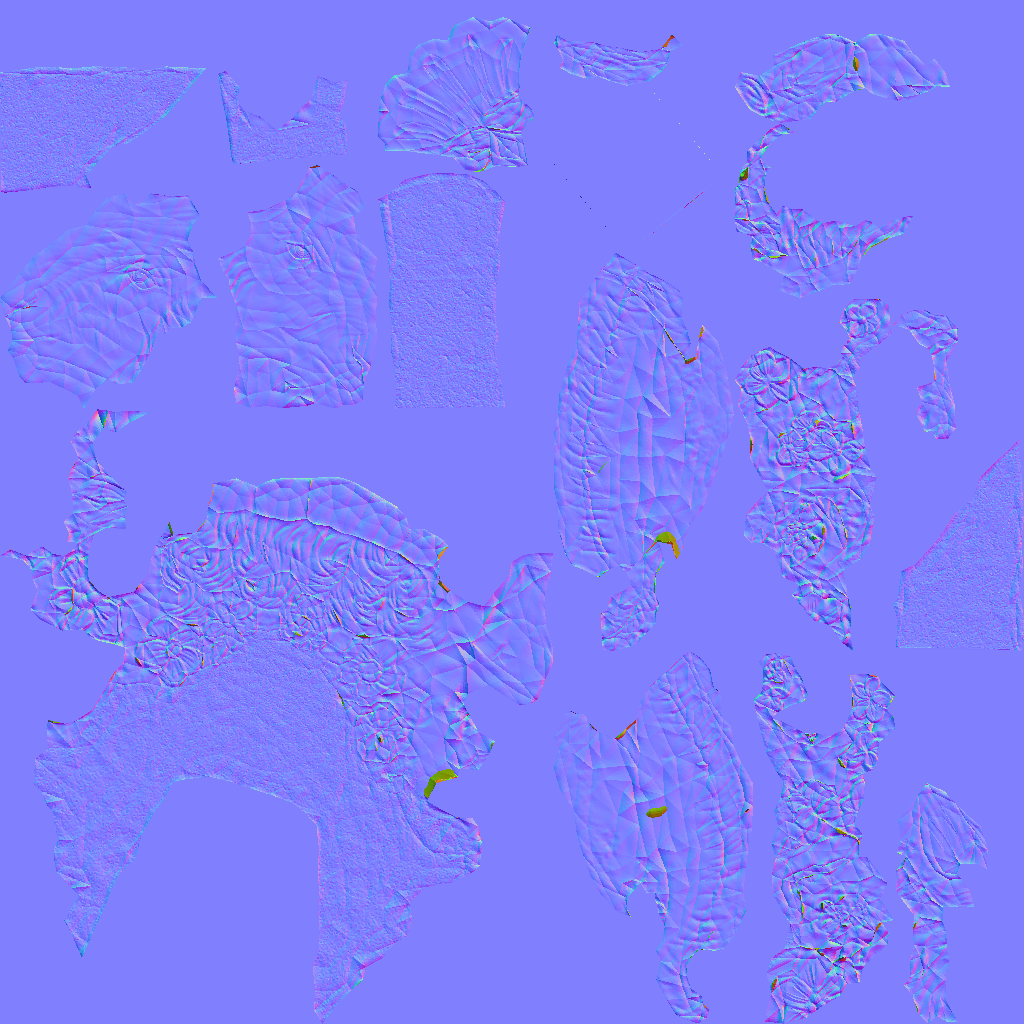
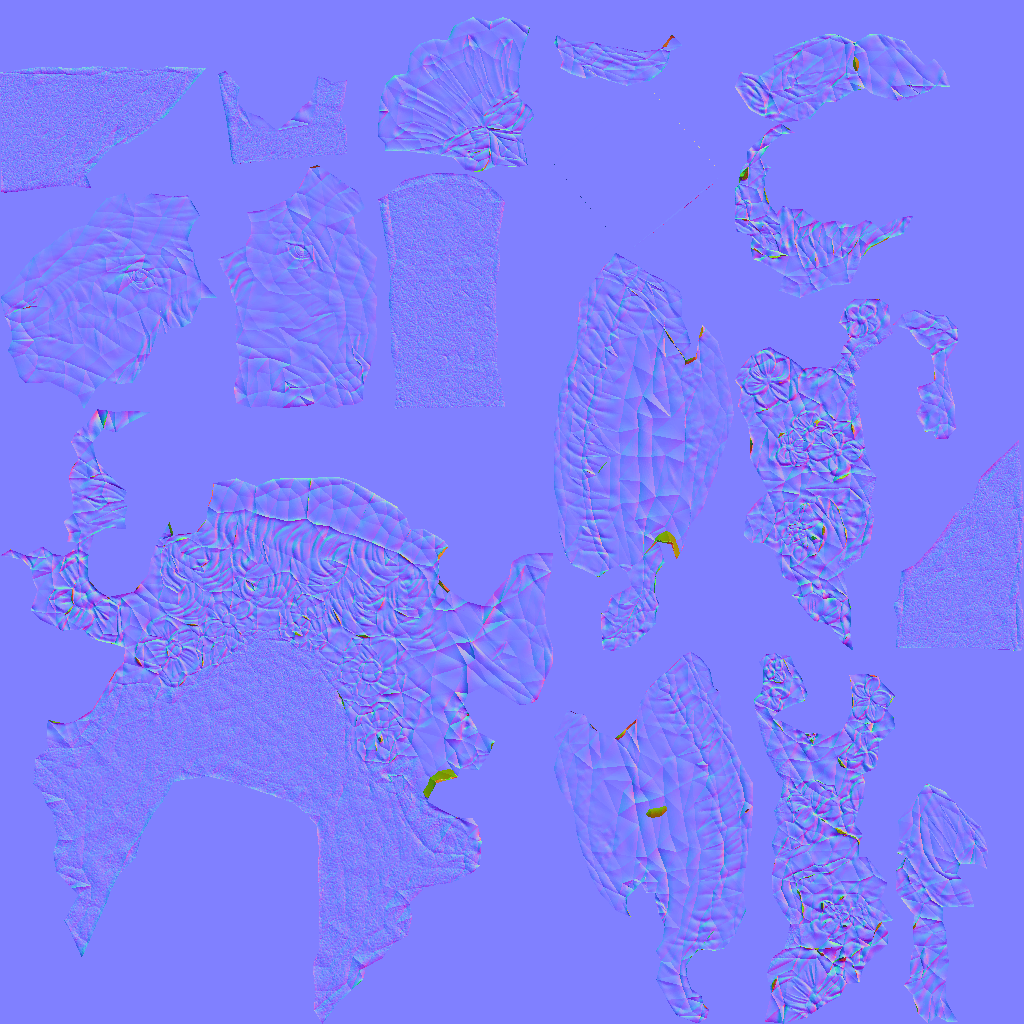
website

diff --git a/projects/lighting/lighting.js b/projects/lighting/lighting.js
@@ -221,11 +221,11 @@ void main() {
   gl_FragColor = vec4(vec3(depth), 1.0);
   gl_FragColor = vec4(result, 1.0);
   //The reflected skybox vector
-  vec3 reflectionVector = refract(-viewDirection, normal, 1.0/1.2);
+  //vec3 reflectionVector = refract(-viewDirection, normal, 1.0/1.2);
   //vec3 reflectionVector = reflect(-viewDirection, normal);
   //Three.js flips cubemaps in the x-direction (see uniforms.flipEnvMap.value = material.envMap.isCubeTexture ? - 1 : 1; in WebGLRenderer.js).
   //Since we use a three.js skybox, flip the x-value of the reflection vector for consistency
-  gl_FragColor = textureCube(environmentMap, vec3(-reflectionVector.x, reflectionVector.yz));
+  //gl_FragColor = textureCube(environmentMap, vec3(-reflectionVector.x, reflectionVector.yz));
 }`;
 
 
@@ -244,7 +244,7 @@ var loader = new THREE.TextureLoader();
 //allow cross origin loading
 loader.crossOrigin = '';
 var texture =  loader.load( 'https://al-ro.github.io/images/pbr/bricks2.jpg' );
-var normals =  loader.load( 'https://al-ro.github.io/images/pbr/bricks2_normal.jpg' );
+var normals =  loader.load( 'https://al-ro.github.io/images/pbr/normals.png' );
 var displacement =  loader.load( 'https://al-ro.github.io/images/pbr/bricks2_disp.jpg' );
 var skyBoxLoader = new THREE.CubeTextureLoader();
 skyBoxLoader.crossOrigin = '';
